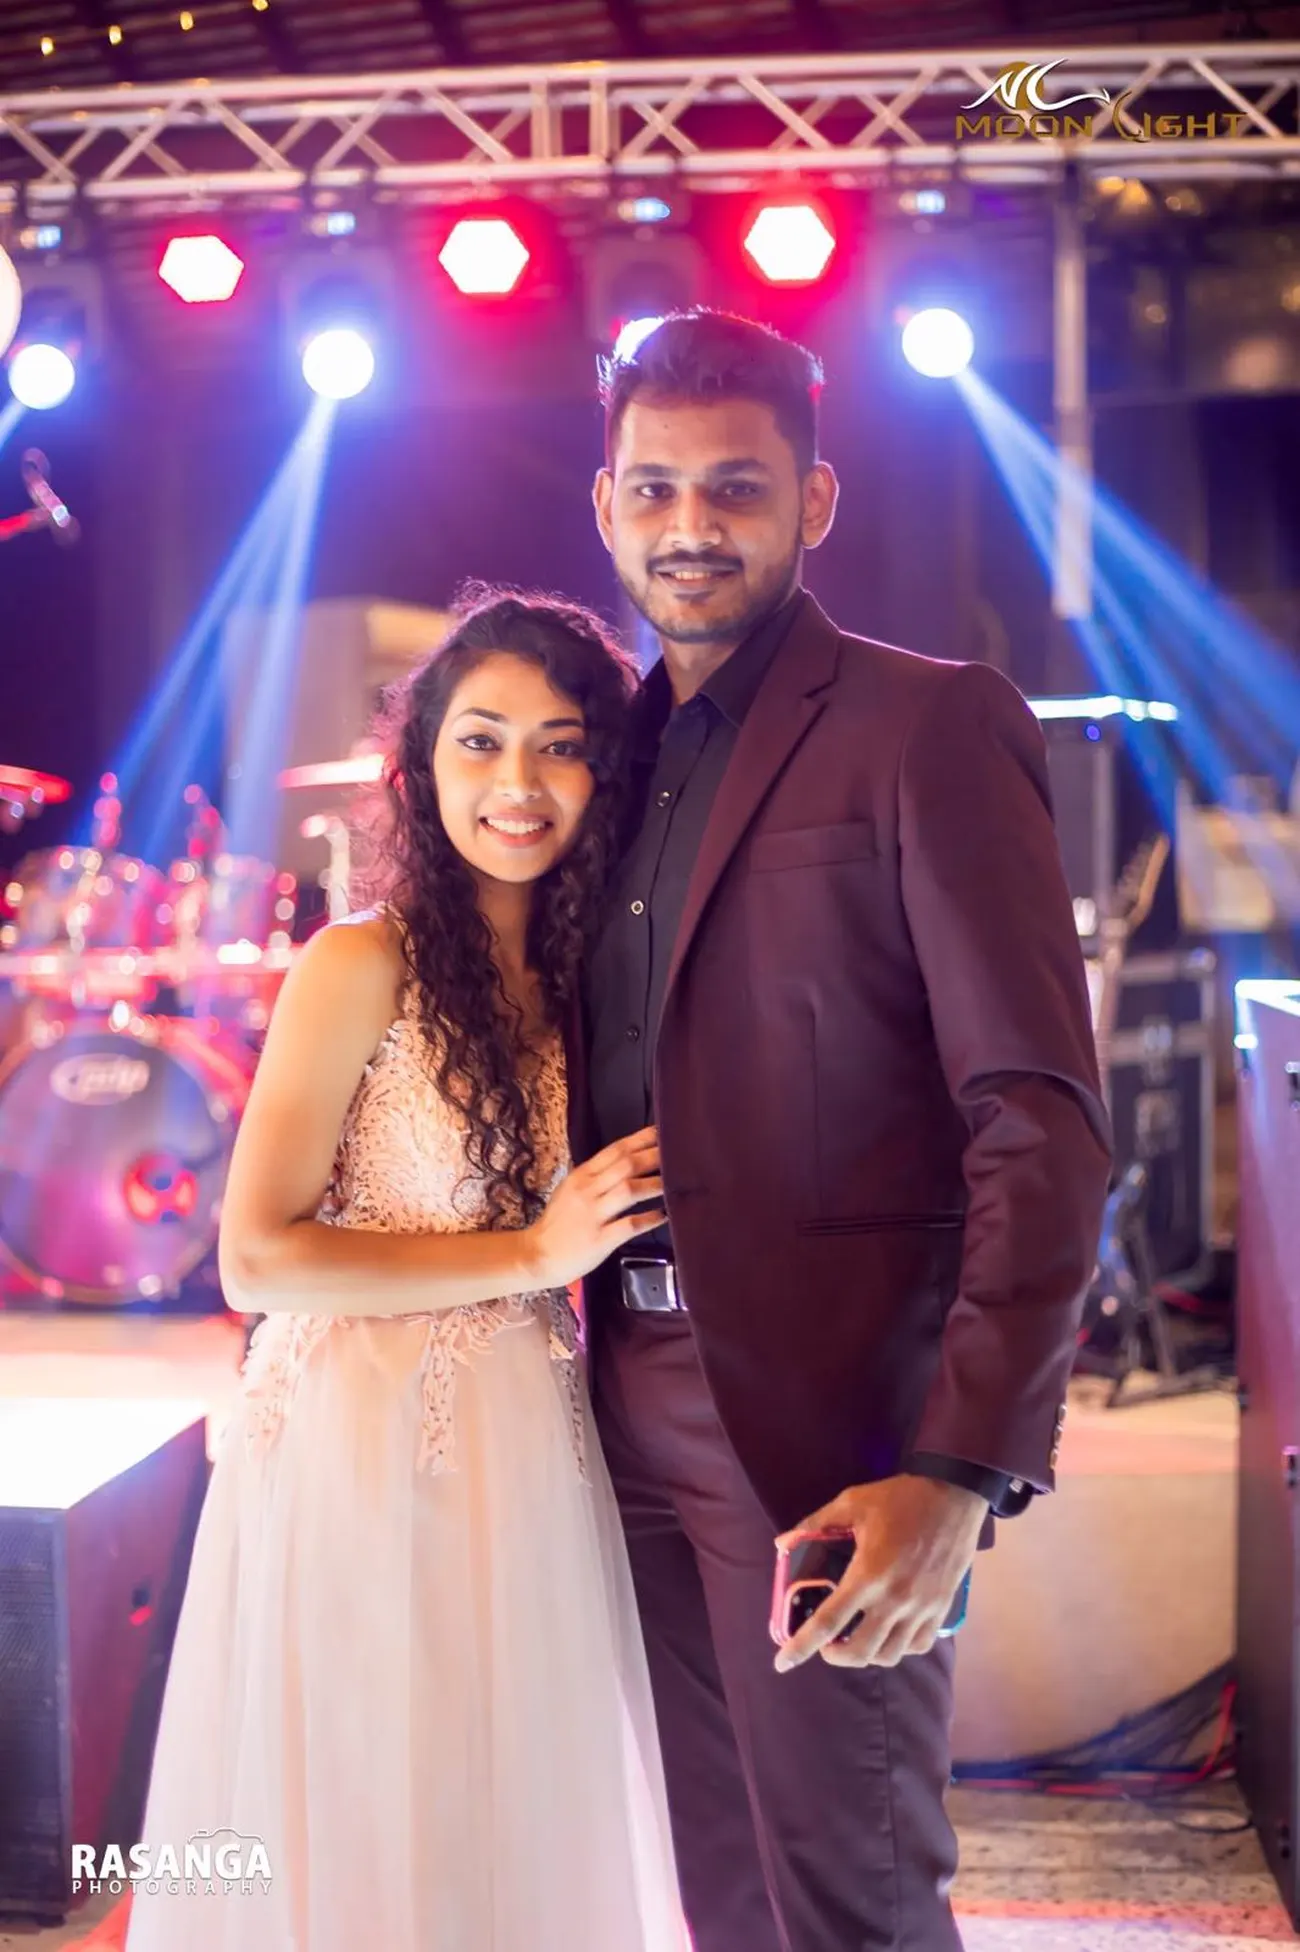
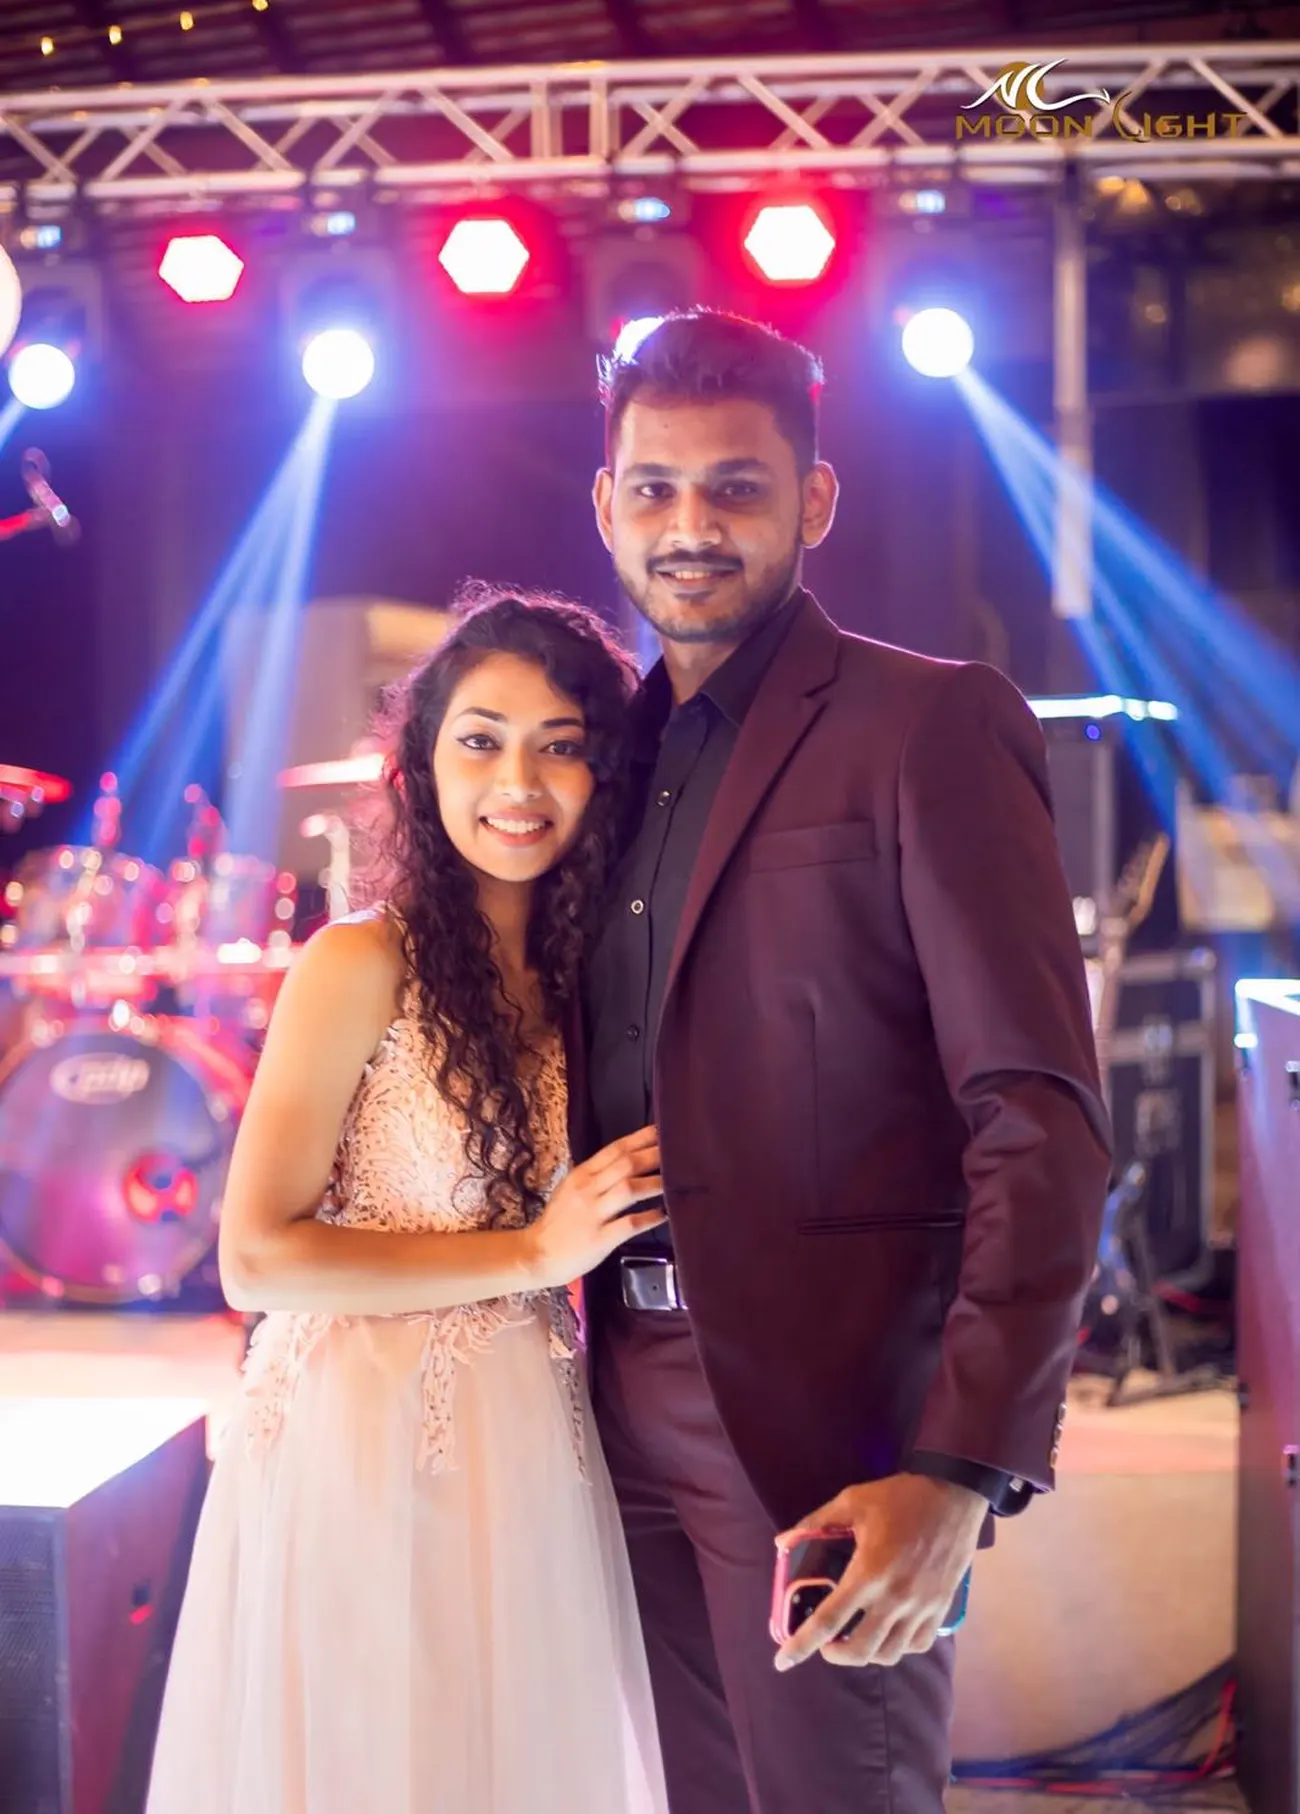
Crop the party photo watermark, make og:image absolute
WhatsApp and Facebook only fetch an absolute og:image; the relative path
would have produced a link preview with no picture.

diff --git a/site/index.html b/site/index.html
@@ -11,7 +11,8 @@
 <meta property="og:type" content="website">
 <meta property="og:title" content="Pasindu &amp; Nihara are getting married">
 <meta property="og:description" content="16 January 2027 — St. Joseph's Church, Wennappuwa. 17 January — The Glasshouse.">
-<meta property="og:image" content="assets/img/share-card.jpg">
+<meta property="og:url" content="https://pasindu0707.github.io/PasinduAndNihara/">
+<meta property="og:image" content="https://pasindu0707.github.io/PasinduAndNihara/assets/img/share-card.jpg">
 <meta name="twitter:card" content="summary_large_image">
 
 <link rel="icon" href="assets/img/favicon.svg" type="image/svg+xml">
